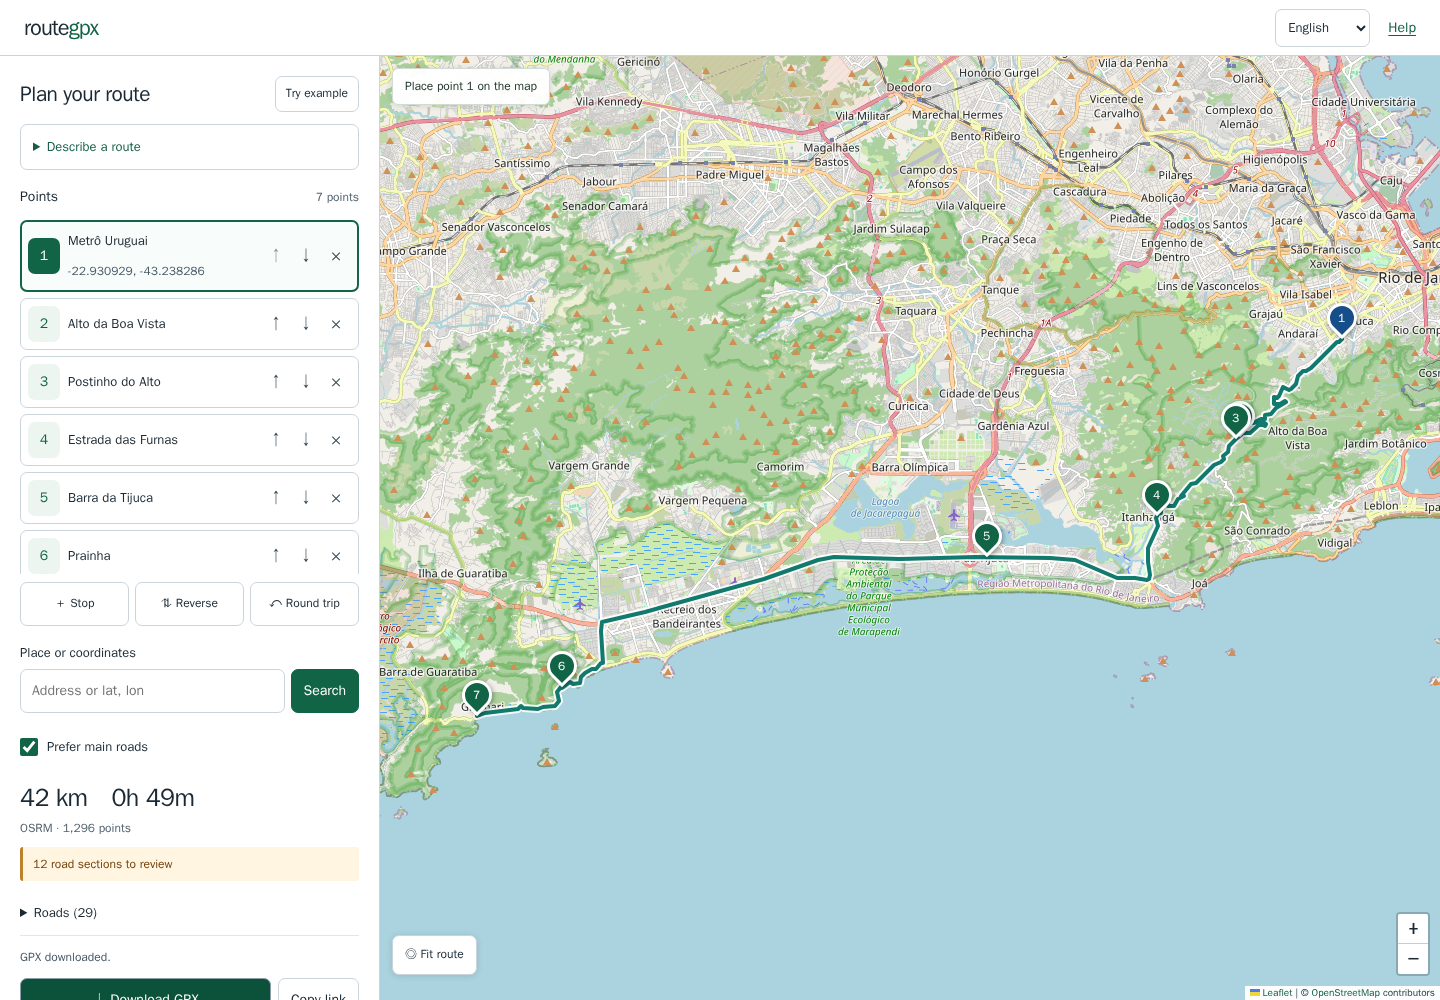
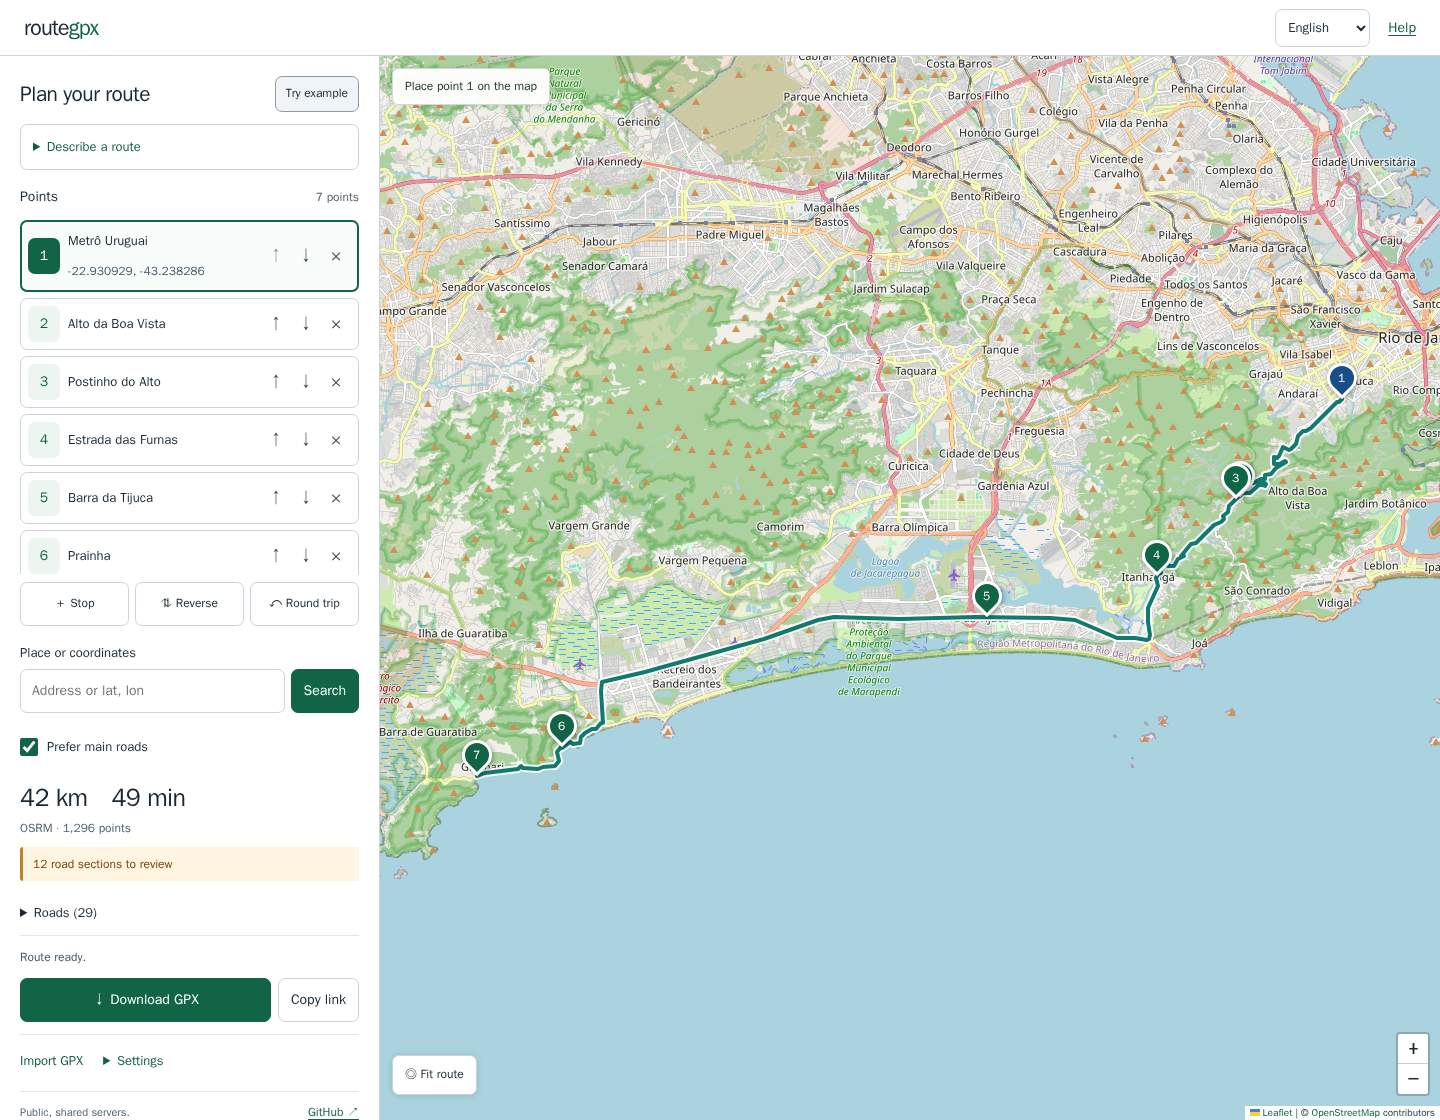
Polish bilingual copy and refresh localized desktop and mobile screenshots

diff --git a/src/main.ts b/src/main.ts
@@ -196,6 +196,9 @@ function renderPoints() {
   $<HTMLButtonElement>('add').disabled = state.points.length >= 50;
 }
 function renderRoute(route: Route) {
+  const locale = state.language === 'pt' ? 'pt-BR' : 'en';
+  const minutes =
+    route.duration === null ? null : Math.round(route.duration / 60);
   line.clearLayers();
   route.segments.forEach((seg) => {
     L.polyline(seg, { color: '#fff', weight: 8, opacity: 0.9 }).addTo(line);
@@ -208,20 +211,22 @@ function renderRoute(route: Route) {
   stats.append(
     text(
       'strong',
-      `${(route.distance / 1000).toLocaleString('en', { maximumFractionDigits: 1 })} km`,
+      `${(route.distance / 1000).toLocaleString(locale, { maximumFractionDigits: 1 })} km`,
     ),
     text(
       'strong',
-      route.duration === null
+      minutes === null
         ? '—'
-        : `${Math.floor(Math.round(route.duration / 60) / 60)}h ${Math.round(route.duration / 60) % 60}m`,
+        : minutes < 60
+          ? `${minutes} min`
+          : `${Math.floor(minutes / 60)}h ${minutes % 60} min`,
     ),
   );
   summary.append(
     stats,
     text(
       'p',
-      `${route.provider} · ${route.segments.reduce((n, s) => n + s.length, 0).toLocaleString('en')} points`,
+      `${route.provider} · ${route.segments.reduce((n, s) => n + s.length, 0).toLocaleString(locale)} points`,
       'hint',
     ),
   );
@@ -251,7 +256,7 @@ function renderRoute(route: Route) {
     .forEach((s) => {
       const li = text(
         'li',
-        `${s.ref ? `${s.ref} · ` : ''}${s.name} — ${(s.distance / 1000).toFixed(2)} km`,
+        `${s.ref ? `${s.ref} · ` : ''}${t(s.name)} — ${(s.distance / 1000).toLocaleString(locale, { minimumFractionDigits: 2, maximumFractionDigits: 2 })} km`,
       );
       if (state.prefer && localSections([s]).length)
         li.className = 'local-road';
@@ -272,7 +277,7 @@ function renderRoute(route: Route) {
       summary.append(
         text(
           'p',
-          `Some points were snapped more than 100 m to a drivable road: ${far.map((p) => `${p.index + 1} (${Math.round(p.distance)} m)`).join(', ')}. Move them closer to your intended road.`,
+          `Check road positions: ${far.map((p) => `${p.index + 1} (${Math.round(p.distance)} m)`).join(', ')}`,
           'warning',
         ),
       );
@@ -345,9 +350,7 @@ $('roundtrip').onclick = () => {
   state.points.push(...structuredClone(state.points.slice(0, -1).reverse()));
   state.points.at(-1)!.name = 'Return to start';
   changed();
-  status(
-    'Round trip added. Each direction will be routed along drivable streets. Check stops on divided roads for unwanted detours.',
-  );
+  status('Round trip added. Check stops on divided roads.');
 };
 $('example').onclick = () => {
   state.points = structuredClone(examplePoints);
@@ -472,11 +475,7 @@ $('share').onclick = () => {
   void navigator.clipboard
     .writeText(location.href)
     .then(() => status('Link copied.'))
-    .catch(() =>
-      status(
-        'Copy the URL from your browser’s address bar to share this route.',
-      ),
-    );
+    .catch(() => status('Copy the link from your address bar.'));
 };
 $<HTMLInputElement>('import').onchange = () => {
   const file = $<HTMLInputElement>('import').files?.[0];
@@ -579,9 +578,7 @@ $('parse-description').onclick = () => {
             p.coord = [...known.coord];
             continue;
           }
-          status(
-            `Finding “${p.name}”… (public search, at most one request per second)`,
-          );
+          status(`Finding “${p.name}”…`);
           const results = await searchAddress(
             [p.name, area.value.trim()].filter(Boolean).join(', '),
             state.nominatim,
@@ -648,5 +645,6 @@ $<HTMLSelectElement>('language').onchange = () => {
   $<HTMLAnchorElement>('help').href =
     './help.html?lang=' + lang + encodeState(state);
   renderPoints();
+  if (current) renderRoute(current);
   syncUrl();
 };

diff --git a/help.html b/help.html
@@ -31,7 +31,7 @@
         <p>
           Open “Describe a route”. Use English or Portuguese, explicit places,
           and a start and destination. Review the extracted names before
-          creating the route. The search uses the first match; check every
+          creating the route. Address search uses the first match; check every
           marker.
         </p>
         <pre>
@@ -47,7 +47,7 @@ De Metrô Uruguai passando por Postinho do Alto até Grumari</pre>
         <p>
           Add stops directly on the roads you want. The road list shows the
           router’s names and references. “Prefer main roads” flags possible
-          local sections longer than 500 m; it does not exclude all local roads.
+          local sections of 500 m or more; it does not exclude all local roads.
           Major avenues without a reference may also be flagged. Access roads
           can be necessary.
         </p>
@@ -132,13 +132,13 @@ From Metrô Uruguai via Postinho do Alto to Grumari</pre>
         <p>
           Adicione paradas diretamente nas vias desejadas. A lista mostra os
           nomes e referências retornados pelo roteador. “Preferir vias
-          principais” sinaliza possíveis trechos locais com mais de 500 m; não
+          principais” sinaliza possíveis trechos locais com 500 m ou mais; não
           exclui todas as vias locais. Avenidas principais sem referência também
           podem ser sinalizadas. Vias de acesso podem ser necessárias.
         </p>
         <h2>GPX, importação e links</h2>
         <p>
-          Baixar GPX exporta a geometria completa pelas ruas e suas paradas.
+          O botão “Baixar GPX” exporta o trajeto completo e suas paradas.
           Importar preserva a geometria original até você editar um ponto. Links
           compartilhados guardam pontos e opções e recalculam com os dados
           atuais; não incluem a geometria original de um arquivo importado.
@@ -182,7 +182,7 @@ From Metrô Uruguai via Postinho do Alto to Grumari</pre>
         <h2>Código aberto</h2>
         <p>
           <a href="https://github.com/t00ls-dev/route-gpx"
-            >Código, documentação completa e problemas</a
+            >Código, documentação e relatos de problemas</a
           >. Licença MIT. Dados ©
           <a href="https://www.openstreetmap.org/copyright"
             >OpenStreetMap e colaboradores</a

diff --git a/src/i18n.ts b/src/i18n.ts
@@ -2,6 +2,15 @@ export type Language = 'en' | 'pt';
 let language: Language = 'en';
 const pt: Record<string, string> = {
   Help: 'Ajuda',
+  'Round trip added. Check stops on divided roads.':
+    'Ida e volta adicionada. Confira os pontos em vias de pistas separadas.',
+  'Copy the link from your address bar.': 'Copie o link na barra de endereços.',
+  'Return to start': 'Volta ao início',
+  'Unnamed road': 'Via sem nome',
+  'Zoom in': 'Aproximar',
+  'Zoom out': 'Afastar',
+  'Place your start on the map': 'Posicione a origem no mapa',
+
   'Plan your route': 'Criar rota',
   'Try example': 'Ver exemplo',
   'Describe a route': 'Descrever uma rota',
@@ -29,10 +38,10 @@ const pt: Record<string, string> = {
   'Create route': 'Criar rota',
   'Places found. Check the markers.': 'Lugares encontrados. Confira os pontos.',
   'GPX imported. Edits recalculate the route.':
-    'GPX importado. Editar recalcula a rota.',
+    'GPX importado. Alterações recalculam a rota.',
   'Import GPX': 'Importar GPX',
-  'From Uruguai via Postinho do Alto to Grumari':
-    'De Uruguai passando por Postinho do Alto até Grumari',
+  'From Metrô Uruguai via Postinho do Alto to Grumari':
+    'De Metrô Uruguai passando por Postinho do Alto até Grumari',
 
   'Your road, point by point.': 'Seu caminho, ponto a ponto.',
   'Open source ↗': 'Código aberto ↗',
@@ -188,6 +197,11 @@ const pt: Record<string, string> = {
   Via: 'Passagem',
 };
 const patterns: [RegExp, (...args: string[]) => string][] = [
+  [/^Stop (\d+)$/, (n) => `Parada ${n}`],
+  [/^Point (\d+)$/, (n) => `Ponto ${n}`],
+  [/^Finding “(.*?)”…$/, (p) => `Buscando “${p}”…`],
+  [/^Check road positions: (.*?)$/, (p) => `Confira os pontos nas vias: ${p}`],
+
   [/^(.*?) · (.*?) points$/, (p, n) => `${p} · ${n} pontos`],
   [/^Place point (\d+) on the map$/, (n) => `Posicione o ponto ${n} no mapa`],
   [/^(\d+) road sections to review$/, (n) => `${n} trechos para conferir`],

diff --git a/tests/i18n.test.ts b/tests/i18n.test.ts
@@ -8,21 +8,31 @@ it('translates native UI labels and dynamic messages in both directions', () => 
   setLanguage('pt');
   expect(t('↓ Download GPX')).toBe('↓ Baixar GPX');
   expect(t('7 points')).toBe('7 pontos');
-  expect(t('Click the map to place point 3')).toContain('ponto 3');
+  expect(t('Place point 3 on the map')).toContain('ponto 3');
   setLanguage('en');
   expect(t('↓ Download GPX')).toBe('↓ Download GPX');
 });
 it('switches existing content and placeholders without overwriting typed place names', () => {
   document.body.innerHTML =
-    '<h1>Take the scenic route.</h1><input placeholder="My road trip" value="Postinho do Alto">';
+    '<h1>Plan your route</h1><input placeholder="My road trip" value="Postinho do Alto">';
   setLanguage('pt');
   translateDocument();
-  expect(document.querySelector('h1')?.textContent).toBe('A estrada é sua.');
+  expect(document.querySelector('h1')?.textContent).toBe('Criar rota');
   expect(document.querySelector('input')?.value).toBe('Postinho do Alto');
   expect(document.querySelector('input')?.placeholder).toBe('Minha viagem');
   setLanguage('en');
-  expect(document.querySelector('h1')?.textContent).toBe(
-    'Take the scenic route.',
-  );
+  expect(document.querySelector('h1')?.textContent).toBe('Plan your route');
   expect(document.querySelector('input')?.placeholder).toBe('My road trip');
+});
+
+it('translates generated stop names and short status messages', () => {
+  setLanguage('pt');
+  expect(t('Stop 2')).toBe('Parada 2');
+  expect(t('Return to start')).toBe('Volta ao início');
+  expect(t('Finding “Grumari”…')).toBe('Buscando “Grumari”…');
+  expect(t('Check road positions: 2 (150 m)')).toBe(
+    'Confira os pontos nas vias: 2 (150 m)',
+  );
+  setLanguage('en');
+  expect(t('Stop 2')).toBe('Stop 2');
 });

diff --git a/index.html b/index.html
@@ -35,7 +35,7 @@
             id="description"
             rows="3"
             maxlength="4000"
-            placeholder="From Uruguai via Postinho do Alto to Grumari"
+            placeholder="From Metrô Uruguai via Postinho do Alto to Grumari"
           ></textarea
           ><button id="parse-description" type="button">Review</button>
           <div id="intent-preview"></div>

diff --git a/README.md b/README.md
@@ -1,10 +1,12 @@
 # route-gpx
 
-**Your road, point by point.** Plan a driving trip, choose the roads you want, and download every turn as a GPX track.
+Create driving routes and download the complete road geometry as GPX.
 
 [Open the app](https://t00ls-dev.github.io/route-gpx/) · [Português](README.pt-BR.md) · [MIT license](LICENSE)
 
 ![route-gpx with the Tijuca to Grumari driving route](docs/screenshot.png)
+
+[Mobile view](docs/mobile.png)
 
 A small, static application: HTML, strict TypeScript, Vite and Leaflet. No backend, API keys, account, cookies, analytics, paid APIs or remote AI. English and Brazilian Portuguese are built in; choose the language in the header. The initial language follows your browser, and shared links remember your selection.
 
@@ -21,7 +23,7 @@ The interface uses a high-contrast light theme, even when the system prefers dar
 
 ### Describe your route
 
-Use the text box alongside the visual editor:
+Open **Describe a route**:
 
 > From Metrô Uruguai via Alto da Boa Vista via Postinho do Alto via Estrada das Furnas via Barra da Tijuca via Prainha to Grumari. Prefer main roads.
 
@@ -35,9 +37,9 @@ This is a deterministic parser, not an LLM. It does not understand arbitrary con
 
 ### Example route
 
-The visible example follows **Metrô Uruguai → Alto da Boa Vista → Postinho do Alto → Estrada das Furnas → Barra da Tijuca → Prainha → Grumari**. Stops sit on the road, including Rua da Boa Vista outside the Postinho, not inside its forecourt or in the middle of a tunnel. The route climbs Avenida Edison Passos, descends Estrada das Furnas, then follows the main avenues toward Grumari. The endpoint is on Avenida Estado da Guanabara at the beach. Router data can change over time; inspect the result.
+The visible example follows **Metrô Uruguai → Alto da Boa Vista → Postinho do Alto → Estrada das Furnas → Barra da Tijuca → Prainha → Grumari**. Stops sit on drivable roads, including Rua da Boa Vista outside the Postinho. The route climbs Avenida Edison Passos, descends Estrada das Furnas, then follows the main avenues toward Grumari. The endpoint is on Avenida Estado da Guanabara at the beach. Router data can change over time; inspect the result.
 
-An exported sample is included at [docs/example.gpx](docs/example.gpx). The original BR-493 / BR-101 journey is retained only as an optional integration regression test.
+An exported sample is included at [docs/example.gpx](docs/example.gpx). A separate BR-493 / BR-101 case is included as an optional integration test.
 
 ### Import and share
 
@@ -77,7 +79,7 @@ npm run test:integration
 
 That explicitly calls the public OSRM once with the BR-493 / BR-101 highway regression case. It checks both references, a plausible distance near 169 km and full geometry.
 
-A browser acceptance script verifies a real OSRM route, GPX download/reimport, both UI languages, text preview, JSON access, mobile width and a dark system preference:
+A browser acceptance script verifies a real OSRM route, GPX download/reimport, both UI languages, text preview, JSON access, mobile layout, help links and light-theme contrast when the system prefers dark mode:
 
 ```sh
 npx playwright install chromium

diff --git a/README.pt-BR.md b/README.pt-BR.md
@@ -1,10 +1,12 @@
 # route-gpx
 
-**Seu caminho, ponto a ponto.** Planeje viagens de carro pelas vias desejadas e baixe a geometria completa em GPX.
+Crie rotas de carro e baixe o traçado completo pelas ruas em GPX.
 
 [Abrir o site](https://t00ls-dev.github.io/route-gpx/) · [English](README.md) · [Licença MIT](LICENSE)
 
-![Rota de Tijuca a Grumari no route-gpx](docs/screenshot.png)
+![Rota de Tijuca a Grumari no route-gpx](docs/screenshot.pt-BR.png)
+
+[Versão para celular](docs/mobile.png)
 
 Site estático em HTML, TypeScript strict, Vite e Leaflet. Sem backend, chave de API, cadastro, cookies ou analytics. Inglês e português do Brasil são nativos; selecione o idioma no cabeçalho.
 
@@ -19,13 +21,13 @@ A interface é clara e tem contraste forte, mesmo se o sistema preferir tema esc
 
 O exemplo é **Metrô Uruguai → Alto da Boa Vista → Postinho do Alto → Estrada das Furnas → Barra da Tijuca → Prainha → Grumari**, com chegada na Avenida Estado da Guanabara junto à praia. O ponto do Postinho fica na Rua da Boa Vista, fora do pátio. A rota sobe a Avenida Edison Passos e desce pelas Furnas. [GPX de exemplo](docs/example.gpx).
 
-## Descrição em linguagem simples e controle manual
+## Descrever uma rota
 
 > De Metrô Uruguai passando por Alto da Boa Vista passando por Postinho do Alto passando por Estrada das Furnas passando por Barra da Tijuca passando por Prainha até Grumari. Prefira vias principais.
 
 Também aceita `From A via B to C`, setas e um local por linha. **Revisar** exibe lugares editáveis, sem consultar serviços. Só após **Criar rota** os endereços são buscados, em sequência. Confira os marcadores: a resolução usa o primeiro resultado. Uma região de busca opcional ajuda a distinguir lugares com nomes iguais.
 
-O interpretador roda no navegador e reconhece estruturas explícitas; não é uma IA geral. Instruções vagas, restrições de elevação e pedidos de segurança, trânsito ou exclusão total de vias locais não são resolvidos automaticamente. O editor de pontos permanece disponível. Há também um editor JSON em **Configurações → Avançado**.
+O interpretador funciona no navegador e reconhece instruções estruturadas. Não é uma IA geral. Instruções vagas, restrições de elevação e pedidos de segurança, trânsito ou exclusão total de vias locais não são resolvidos automaticamente. O editor de pontos permanece disponível. Há também um editor JSON em **Configurações → Avançado: JSON**.
 
 ## Importar, compartilhar e ida e volta
 
@@ -51,7 +53,7 @@ Abra a URL `/route-gpx/` indicada pelo Vite. O teste de rede é opcional e fica 
 npm run test:integration
 ```
 
-Ele verifica a rota original de cerca de 169 km pelas BR-493 e BR-101. Os testes normais não consultam servidores públicos. [Documentação completa dos testes e verificação no navegador](README.md#checks).
+Ele verifica uma rota de cerca de 169 km pelas BR-493 e BR-101. Os testes normais não consultam servidores públicos. [Documentação completa dos testes e verificação no navegador](README.md#checks).
 
 ## Servidores e limites
 
